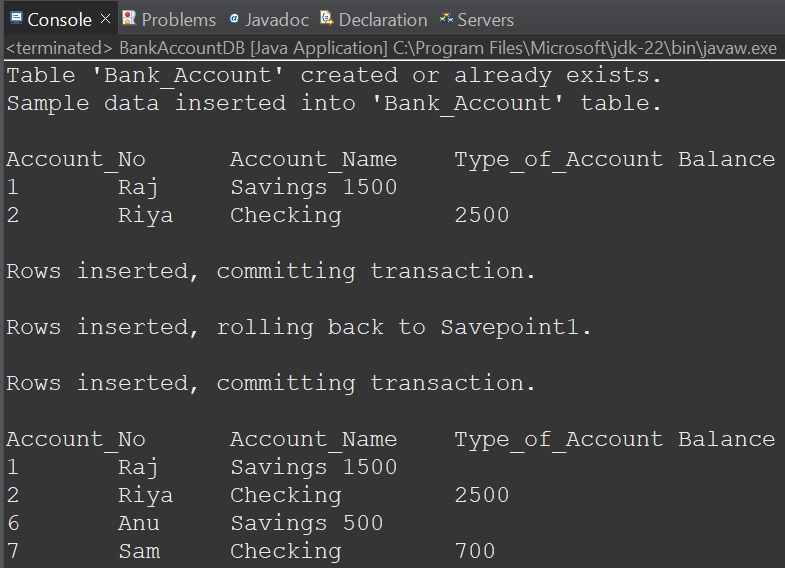
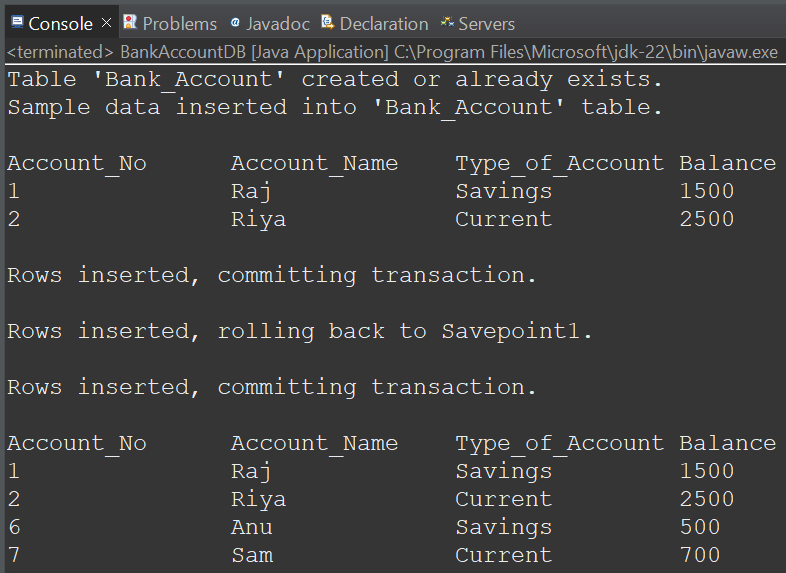
updated week4

diff --git a/AdvJava/week4/P2BankAccountDB.java b/AdvJava/week4/P2BankAccountDB.java
@@ -2,7 +2,7 @@ package AdvJava.week4;
 
 import java.sql.*;
 
-public class P4BankAccountDB {
+public class P2BankAccountDB {
 
     // Database URL, username, and password
     private static final String DB_URL = "jdbc:mysql://localhost:3307/week4", USER = "root", PASS = ""; // Update this
@@ -37,7 +37,7 @@ public class P4BankAccountDB {
 
             pStmt.setInt(1, 2);
             pStmt.setString(2, "Riya");
-            pStmt.setString(3, "Checking");
+            pStmt.setString(3, "Current");
             pStmt.setInt(4, 2500);
             pStmt.executeUpdate();
 
@@ -59,7 +59,7 @@ public class P4BankAccountDB {
 
                 pStmt.setInt(1, 7);
                 pStmt.setString(2, "Sam");
-                pStmt.setString(3, "Checking");
+                pStmt.setString(3, "Current");
                 pStmt.setInt(4, 700);
                 pStmt.executeUpdate();
 
@@ -82,7 +82,7 @@ public class P4BankAccountDB {
 
                 pStmt.setInt(1, 9);
                 pStmt.setString(2, "Tarun");
-                pStmt.setString(3, "Checking");
+                pStmt.setString(3, "Current");
                 pStmt.setInt(4, 1100);
                 pStmt.executeUpdate();
 
@@ -124,7 +124,7 @@ public class P4BankAccountDB {
             System.out.println(rs.getInt("Account_No") + "\t" +
                     rs.getString("Account_Name") + "\t" +
                     rs.getString("Type_of_Account") + "\t" +
-                    rs.getBigDecimal("Balance"));
+                    rs.getInt("Balance"));
         }
     }
 }

diff --git a/AdvJava/week4/P1CustomerDB.java b/AdvJava/week4/P1CustomerDB.java
@@ -2,7 +2,7 @@ package AdvJava.week4;
 
 import java.sql.*;
 
-public class P3CustomerDB {
+public class P1CustomerDB {
 
     // Database URL, username, and password
     private static final String DB_URL = "jdbc:mysql://localhost:3306/dbName", USER = "root", PASS = ""; // Update this
@@ -51,7 +51,7 @@ public class P3CustomerDB {
                 System.out.println(rs.getInt("ID") + "\t" +
                         rs.getString("Name") + "\t" +
                         rs.getString("Type_of_Customer") + "\t\t\t" +
-                        rs.getBigDecimal("Amount_Spent"));
+                        rs.getInt("Amount_Spent"));
             }
 
             // iii. Demonstrate the details of the database by using DatabaseMetaData
